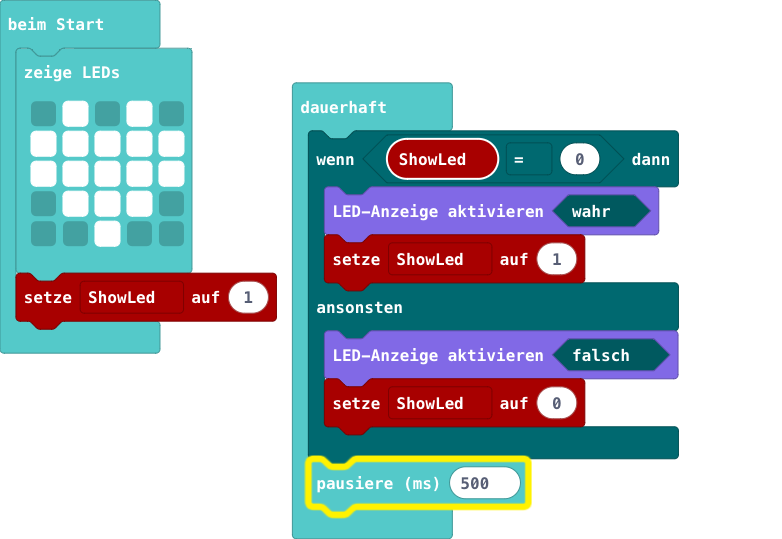
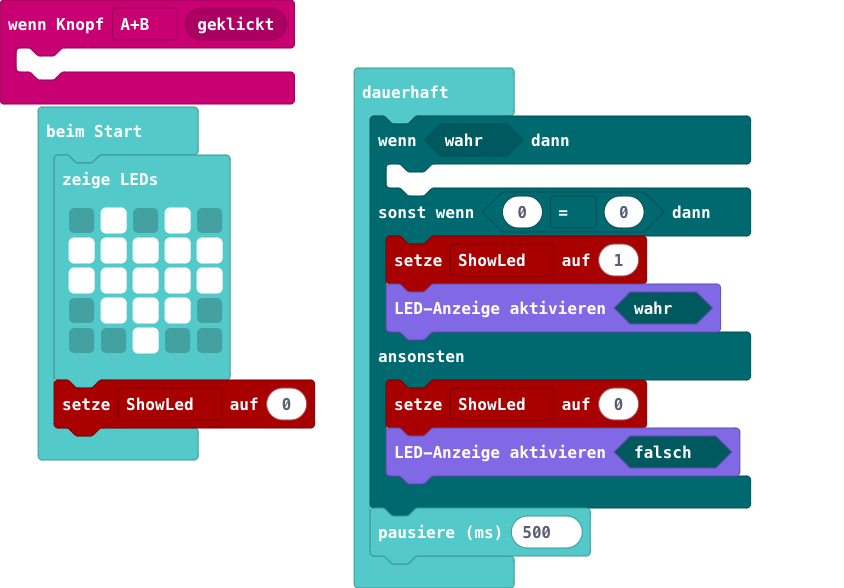
Aktualisiere main.blocks, main.ts

diff --git a/main.ts b/main.ts
@@ -1,3 +1,6 @@
+input.onButtonEvent(Button.AB, input.buttonEventClick(), function () {
+	
+})
 basic.showLeds(`
     . # . # .
     # # # # #
@@ -5,14 +8,16 @@ basic.showLeds(`
     . # # # .
     . . # . .
     `)
-let ShowLed = 1
+let ShowLed = 0
 basic.forever(function () {
-    if (ShowLed == 0) {
-        led.enable(true)
+    if (true) {
+    	
+    } else if (0 == 0) {
         ShowLed = 1
+        led.enable(true)
     } else {
-        led.enable(false)
         ShowLed = 0
+        led.enable(false)
     }
     basic.pause(500)
 })
